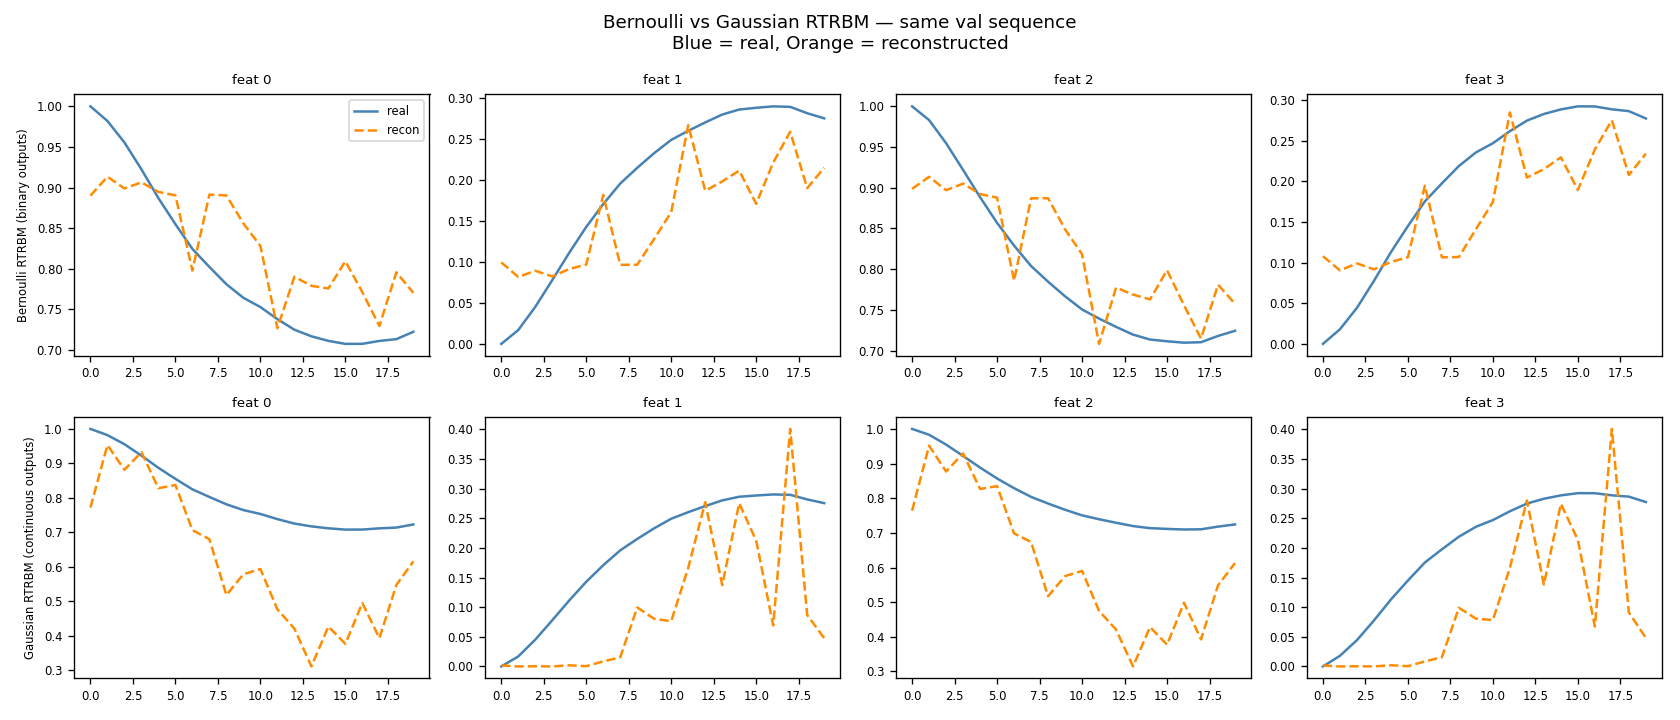
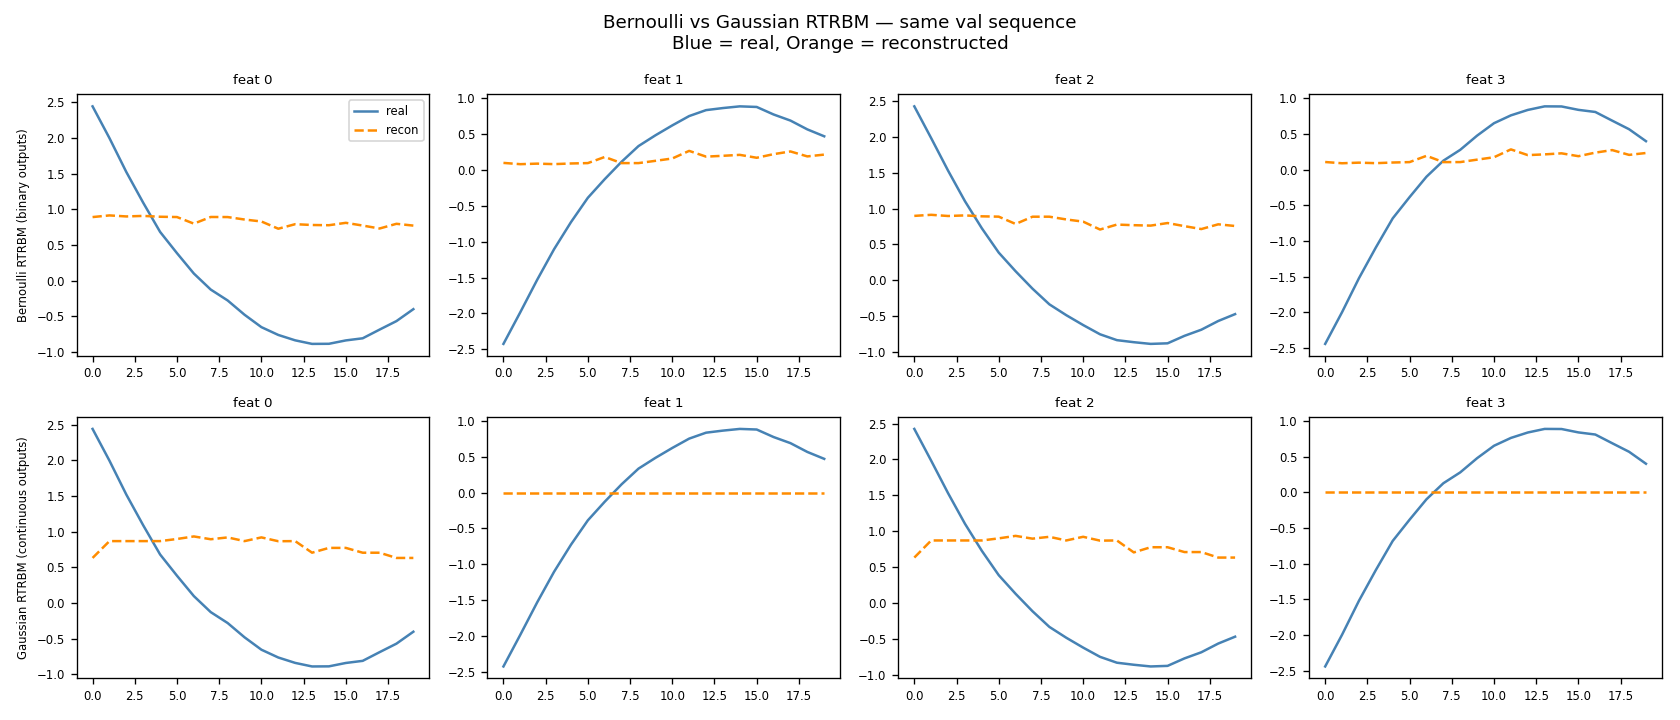
RTGaussianRBM: fix reconstruct/forward normalization mismatch; fix plotting to use normalized space for fair comparison

diff --git a/src/sit_fuse_rtrbm/temporal/rt_gaussian_rbm.py b/src/sit_fuse_rtrbm/temporal/rt_gaussian_rbm.py
@@ -322,3 +322,98 @@ class RTGaussianRBM(RTRBM):
         probs = torch.sigmoid(states)
 
         return probs, states
+
+    def forward(self, x: torch.Tensor) -> torch.Tensor:
+        """Overrides RTRBM.forward() to apply input normalization.
+
+        Mirrors GaussianRBM.forward() (gaussian_rbm.py lines 285-288),
+        adapted for temporal (batch, seq_len, n_visible) input shape.
+        Without this, forward() sees un-normalized data but the model
+        was trained on normalized data -- causing poor hidden embeddings.
+        """
+        if self.input_normalize:
+            batch_size, seq_len, n_visible = x.shape
+            flat = x.reshape(-1, n_visible)
+            flat = (
+                (flat - torch.mean(flat, 0, True))
+                / (torch.std(flat, 0, True) + 1e-6)
+            ).detach()
+            x = flat.reshape(batch_size, seq_len, n_visible)
+
+        batch_size, seq_len, n_visible = x.shape
+        h_prev = self.h0.unsqueeze(0).expand(batch_size, -1)
+        all_probs = []
+        for t in range(seq_len):
+            v_t = x[:, t, :]
+            probs, _ = self.hidden_sampling(v_t, h_prev)
+            all_probs.append(probs.unsqueeze(1))
+            h_prev = probs
+        return torch.cat(all_probs, dim=1)
+
+    def reconstruct(
+        self, dataset: torch.utils.data.Dataset
+    ) -> Tuple[float, torch.Tensor]:
+        """Overrides RTRBM.reconstruct() to normalize during reconstruction.
+
+        Mirrors GaussianRBM.reconstruct() (gaussian_rbm.py lines 249-254).
+        The model was trained on per-batch normalized data -- without
+        applying the same normalization during reconstruction, the model
+        sees a completely different data distribution and reconstructions
+        are meaningless.
+        """
+        from torch.utils.data import DataLoader
+        from tqdm import tqdm
+
+        logger.info("Reconstructing new samples ...")
+
+        mse = torch.tensor(0.0)
+        batch_size = len(dataset)
+        batches = DataLoader(
+            dataset, batch_size=batch_size, shuffle=False, num_workers=0
+        )
+        visible_probs_all = []
+
+        for samples, _ in tqdm(batches):
+            if self.device == "cuda":
+                samples = samples.cuda()
+
+            if self.normalize:
+                b, s, n = samples.shape
+                flat = samples.reshape(-1, n)
+                flat = (
+                    (flat - torch.mean(flat, 0, True))
+                    / (torch.std(flat, 0, True) + 1e-6)
+                ).detach()
+                samples = flat.reshape(b, s, n)
+
+            batch_size_actual = samples.size(0)
+            seq_len = samples.size(1)
+            h_prev = self.h0.unsqueeze(0).expand(batch_size_actual, -1)
+            recon_probs = []
+            recon_states = []
+
+            for t in range(seq_len):
+                v_t = samples[:, t, :]
+                pos_hidden_probs, pos_hidden_states = self.hidden_sampling(
+                    v_t, h_prev
+                )
+                visible_prob, visible_state = self.visible_sampling(
+                    pos_hidden_states
+                )
+                recon_probs.append(visible_prob.unsqueeze(1))
+                recon_states.append(visible_state.unsqueeze(1))
+                h_prev = pos_hidden_probs
+
+            recon_probs_seq = torch.cat(recon_probs, dim=1)
+            recon_states_seq = torch.cat(recon_states, dim=1)
+
+            batch_mse = torch.div(
+                torch.sum(torch.pow(samples - recon_states_seq, 2)),
+                batch_size_actual
+            ).detach()
+            mse += batch_mse
+            visible_probs_all.append(recon_probs_seq)
+
+        mse /= len(batches)
+        logger.info("MSE: %f", mse)
+        return mse, torch.cat(visible_probs_all, dim=0)

diff --git a/experiments/train_reach_rt_gaussian.py b/experiments/train_reach_rt_gaussian.py
@@ -149,10 +149,15 @@ fig.suptitle("Real vs Reconstructed — RTGaussianRBM (val split)\n"
 
 for seq_idx in range(N_TO_PLOT):
     real_seq, _ = val_ds[seq_idx]
+    # Normalize real_seq to match what model sees during reconstruction
+    real_flat = real_seq.reshape(-1, N_VISIBLE)
+    real_norm = (real_flat - real_flat.mean(axis=0, keepdims=True)
+                 ) / (real_flat.std(axis=0, keepdims=True) + 1e-6)
+    real_seq_plot = real_norm.reshape(SEQ_LEN, N_VISIBLE)
     recon = val_probs[seq_idx].detach().numpy()
     for feat_idx in range(N_FEAT_SHOW):
         ax = axes[seq_idx, feat_idx]
-        ax.plot(real_seq[:, feat_idx], color="steelblue",
+        ax.plot(real_seq_plot[:, feat_idx], color="steelblue",
                 label="real" if feat_idx == 0 else "")
         ax.plot(recon[:, feat_idx], color="darkorange",
                 linestyle="--", label="recon" if feat_idx == 0 else "")
@@ -182,7 +187,7 @@ if os.path.exists(bern_probs_path):
     for row_idx, (title, recon) in enumerate(rows):
         for feat_idx in range(N_FEAT_SHOW):
             ax = axes[row_idx, feat_idx]
-            ax.plot(real_seq[:, feat_idx], color="steelblue",
+            ax.plot(real_seq_plot[:, feat_idx], color="steelblue",
                     label="real" if feat_idx == 0 else "")
             ax.plot(recon[:, feat_idx], color="darkorange",
                     linestyle="--", label="recon" if feat_idx == 0 else "")